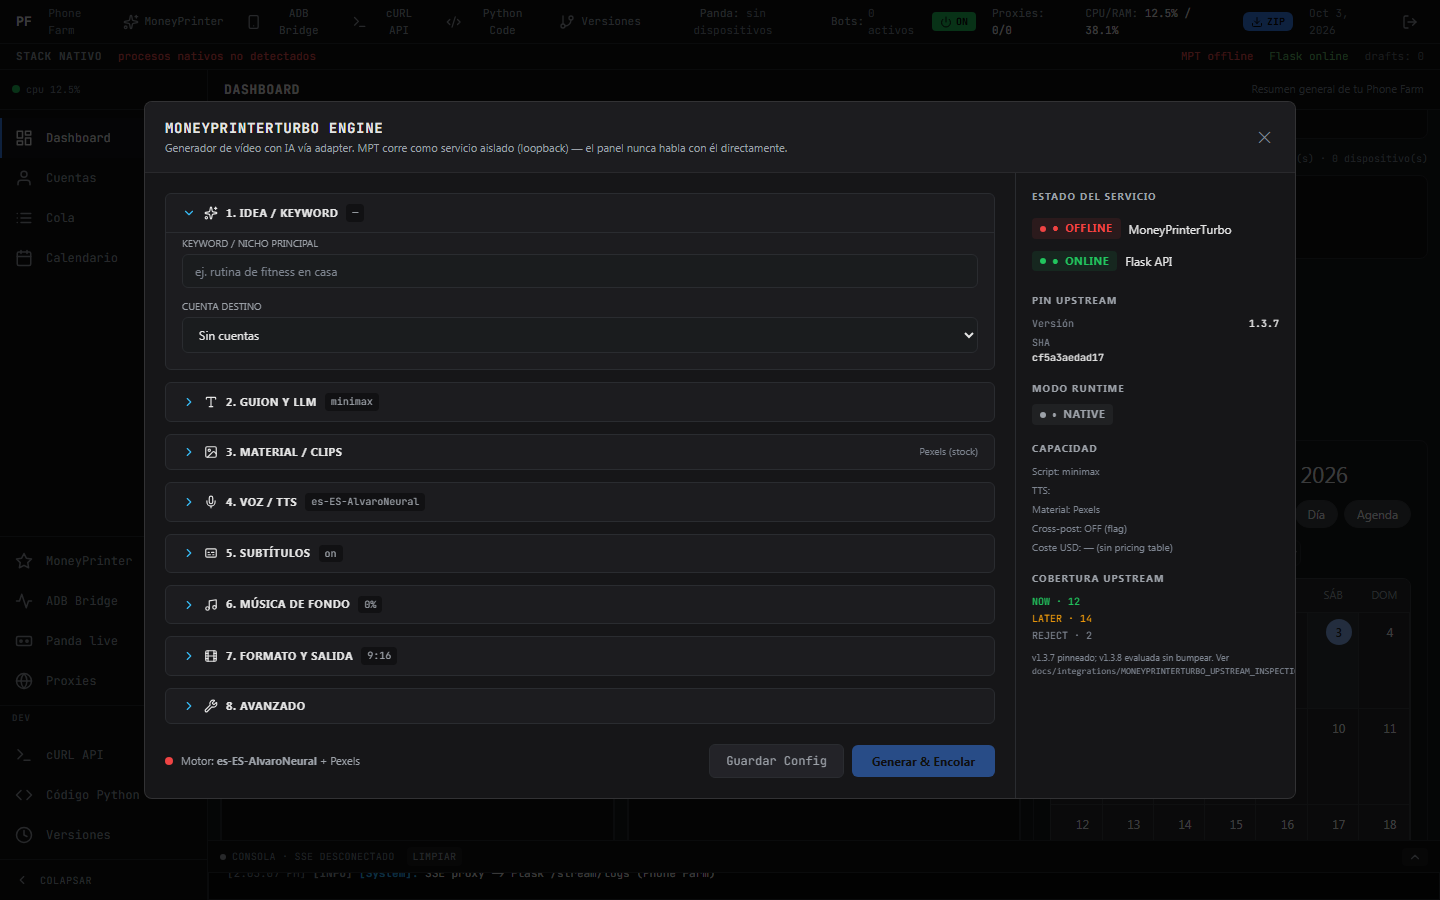
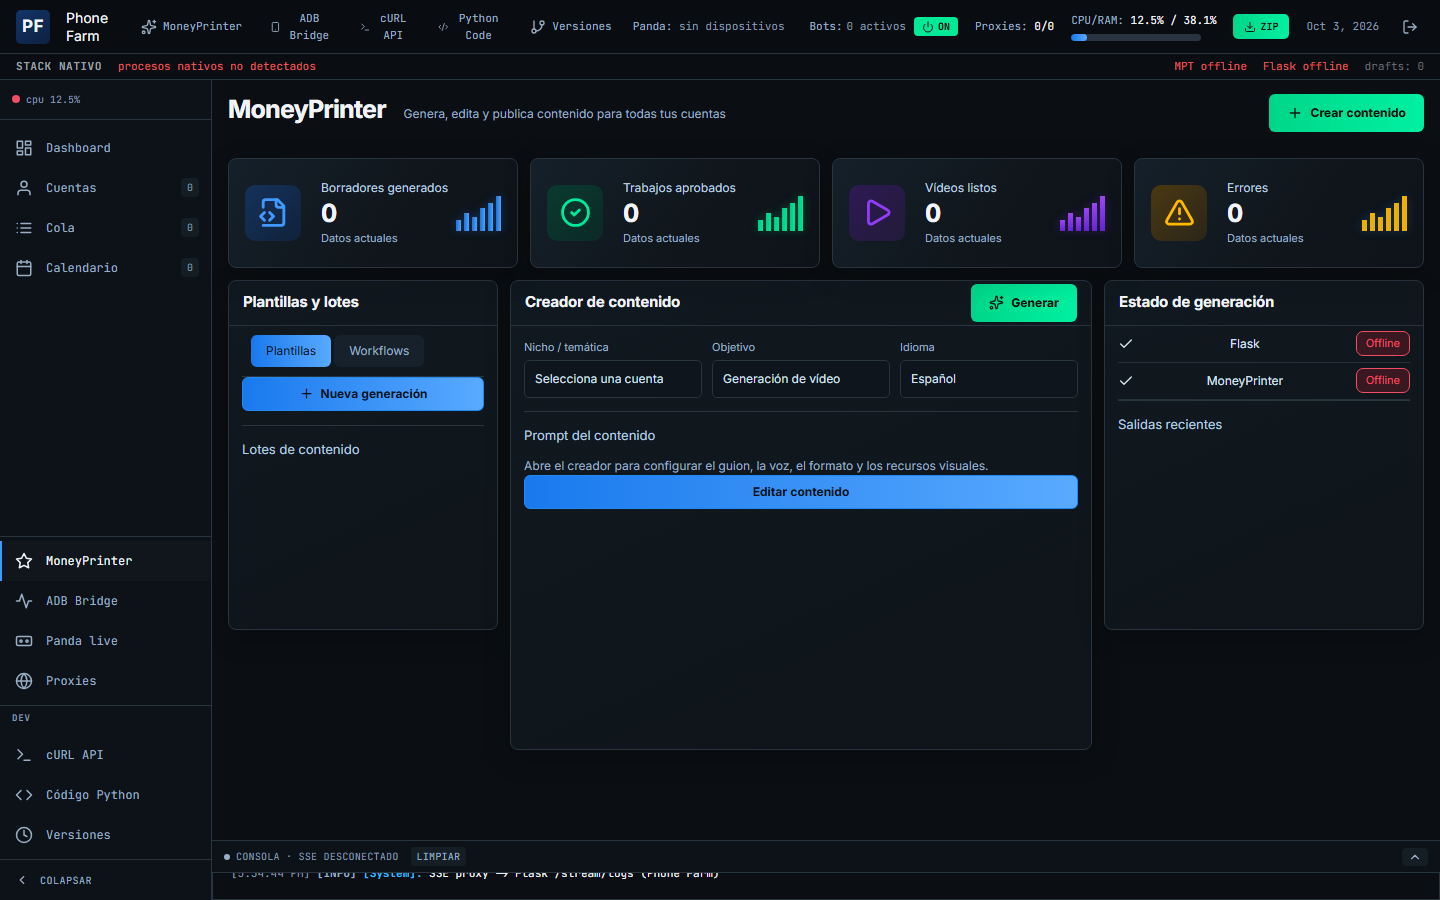
test(ui): document and capture reference views

diff --git a/e2e/reference-views.spec.ts b/e2e/reference-views.spec.ts
@@ -1,0 +1,37 @@
+import { expect, test } from '@playwright/test';
+import fs from 'node:fs';
+import path from 'node:path';
+
+const views = [
+  ['Cuentas', 'Cuentas'],
+  ['Cola', 'Cola'],
+  ['Calendario', 'Calendario'],
+  ['MoneyPrinter', 'MoneyPrinter'],
+  ['Panda live', 'Panda Live'],
+  ['Proxies', 'Proxies'],
+  ['cURL API', 'cURL API'],
+  ['Código Python', 'Código Python'],
+  ['Versiones', 'Versiones'],
+] as const;
+
+test('las nueve secciones de referencia cargan y conservan la navegación', async ({ page }) => {
+  await page.setViewportSize({ width: 1672, height: 941 });
+  await page.goto('/');
+  await page.getByLabel('Nombre de usuario operador').fill('admin');
+  await page.getByLabel('Contraseña de seguridad').fill('test-admin-password-123456');
+  await page.getByRole('button', { name: /Iniciar Sesi/ }).click();
+  const sidebar = page.getByRole('navigation', { name: /Navegación principal/i });
+  await expect(sidebar).toBeVisible();
+  const output = path.resolve('docs/evidence/ui/reference-1672');
+  fs.mkdirSync(output, { recursive: true });
+
+  for (const [navLabel, heading] of views) {
+    await page.getByRole('button', { name: navLabel, exact: true }).last().click();
+    await expect(page.getByRole('heading', { name: heading, exact: true }).first()).toBeVisible();
+    await expect(page.getByRole('banner').first()).toBeVisible();
+    await expect(sidebar).toBeVisible();
+    await page.screenshot({ path: path.join(output, `${heading.toLowerCase().replaceAll(/[^a-z0-9]+/g, '-')}.png`), fullPage: false });
+    const overflow = await page.evaluate(() => Math.max(0, document.documentElement.scrollWidth - document.documentElement.clientWidth));
+    expect(overflow).toBeLessThanOrEqual(1);
+  }
+});

diff --git a/e2e/visual.spec.ts b/e2e/visual.spec.ts
@@ -103,11 +103,11 @@ test.describe('TASK §27.5 — capturas', () => {
           await nav.getByText(/Calendario/i).first().click();
         } else if (shot.name === 'api-explorer') {
           await techNav.getByText(/cURL API/i).first().click();
-          await expect(page.getByRole('dialog', { name: /Explorador de la API/i })).toBeVisible({ timeout: 20_000 });
+          await expect(page.getByRole('heading', { name: 'cURL API' })).toBeVisible({ timeout: 20_000 });
           await page.waitForTimeout(400);
         } else if (shot.name === 'moneyprinter') {
           await techNav.getByText(/MoneyPrinter/i).first().click();
-          await expect(page.getByRole('dialog').first()).toBeVisible({ timeout: 20_000 });
+          await expect(page.getByRole('heading', { name: 'MoneyPrinter' })).toBeVisible({ timeout: 20_000 });
           await page.waitForTimeout(400);
         }
         await page.waitForTimeout(500);

diff --git a/docs/TASKS.md b/docs/TASKS.md
@@ -1,0 +1,81 @@
+# Tareas de diseño
+
+### [T-001] Tokens y fuentes
+- **Estado:** DONE
+- **Depende de:** ninguna
+- **Archivos a tocar:** src/reference.css, src/main.tsx
+- **Contexto:** La aplicación ya incluye Inter Variable, JetBrains Mono y Lucide. Se centralizan los valores derivados de las capturas sin añadir paquetes.
+- **Instrucciones:** 1. Registrar paleta y gradientes. 2. Importar los tokens tras los estilos existentes.
+- **Valores de diseño:** lienzo `#0B0E12`; panel `#10161C`; Inter 12–25 px; gradiente lineal 125° `#15202A 0%`, `#10161C 55%`, `#0E1319 100%`.
+- **Criterio de aceptación:** [x] Tokens disponibles [x] fuentes locales conservadas.
+- **Verificación:** `npm run typecheck`, `npm run build`.
+
+### [T-002] Cabecera y navegación
+- **Estado:** DONE
+- **Depende de:** T-001
+- **Archivos a tocar:** src/components/Header.tsx, src/App.tsx, src/reference.css
+- **Contexto:** El shell anterior tenía escala menor y las herramientas abrían modales directamente. Las referencias mantienen el shell visible alrededor de cada sección.
+- **Instrucciones:** 1. Ajustar cabecera y lateral. 2. Navegar a secciones de página. 3. Mantener el acceso a operaciones existentes.
+- **Valores de diseño:** cabecera 54 px; lateral 212 px; azul `#4199FF`; verde `#00E997`.
+- **Criterio de aceptación:** [x] navegación visible [x] herramientas accesibles.
+- **Verificación:** `npm run typecheck`, pruebas de navegación.
+
+### [T-003] Vista Cuentas
+- **Estado:** DONE
+- **Depende de:** T-002
+- **Archivos a tocar:** src/components/ReferenceViews.tsx, src/reference.css
+- **Contexto:** La captura usa cuatro métricas, tabla ancha y detalle lateral. Los datos proceden de cuentas reales.
+- **Instrucciones:** 1. Mostrar métricas y filtros. 2. Componer tabla. 3. Abrir el detalle existente.
+- **Valores de diseño:** panel `#10161C`; azul `#4199FF`; tarjeta 8 px de radio.
+- **Criterio de aceptación:** [x] tabla y filtros [x] detalle accesible.
+- **Verificación:** `npm run typecheck`, captura de Cuentas.
+
+### [T-004] Vista Cola
+- **Estado:** DONE
+- **Depende de:** T-002
+- **Archivos a tocar:** src/components/ReferenceViews.tsx, src/reference.css
+- **Contexto:** La imagen presenta métricas, pipeline, tabla y detalle. Se calculan categorías a partir de los estados actuales.
+- **Instrucciones:** 1. Agrupar estados. 2. Pintar pipeline y tabla. 3. Preservar generación y vista previa.
+- **Valores de diseño:** azul `#4199FF`; púrpura `#913CF5`; verde `#00E997`.
+- **Criterio de aceptación:** [x] pipeline [x] acciones conservadas.
+- **Verificación:** `npm run typecheck`, captura de Cola.
+
+### [T-005] Vista Calendario
+- **Estado:** DONE
+- **Depende de:** T-002
+- **Archivos a tocar:** src/App.tsx, src/reference.css
+- **Contexto:** El calendario existente ya permite mes, semana, día, agenda y reprogramación. Se añade cabecera, métricas y próximas publicaciones.
+- **Instrucciones:** 1. Mantener `ScheduleModal` embebido. 2. Añadir métricas reales. 3. Mostrar eventos próximos.
+- **Valores de diseño:** tarjeta `#10161C`; borde `#28343E`; separación 12 px.
+- **Criterio de aceptación:** [x] vistas y programación accesibles [x] métricas reales.
+- **Verificación:** `npm run typecheck`, captura de Calendario.
+
+### [T-006] Vista Proxies
+- **Estado:** DONE
+- **Depende de:** T-002
+- **Archivos a tocar:** src/components/ReferenceViews.tsx, src/reference.css
+- **Contexto:** Se muestran estado, latencia, lista y configuración. La telemetría ausente se identifica como tal.
+- **Instrucciones:** 1. Mostrar estado real. 2. Mostrar lista y detalle. 3. Conservar modal de gestión.
+- **Valores de diseño:** verde `#00E997`; rojo `#F04E62`; púrpura `#913CF5`.
+- **Criterio de aceptación:** [x] lista [x] acceso a gestión.
+- **Verificación:** `npm run typecheck`, captura de Proxies.
+
+### [T-007] Vistas de herramientas
+- **Estado:** DONE
+- **Depende de:** T-002
+- **Archivos a tocar:** src/components/ReferenceViews.tsx, src/reference.css
+- **Contexto:** MoneyPrinter, Panda Live, API, Código y Versiones se presentan como páginas y enlazan sus herramientas funcionales.
+- **Instrucciones:** 1. Construir composiciones de cada referencia. 2. Usar datos reales. 3. Abrir la operación existente desde cada página.
+- **Valores de diseño:** panel `#10161C`; texto `#F1F5FB`; gradientes de T-001.
+- **Criterio de aceptación:** [x] cinco páginas navegables [x] acciones accesibles.
+- **Verificación:** `npm run typecheck`, capturas de escritorio.
+
+### [T-008] QA visual y regresión
+- **Estado:** DONE
+- **Depende de:** T-003, T-004, T-005, T-006, T-007
+- **Archivos a tocar:** docs/DESIGN_DEVIATIONS.md, src/reference.css
+- **Contexto:** Las capturas son de 1672 × 941 px con datos y assets no presentes en el backend. La revisión debe separar diferencias de estilo de diferencias de contenido.
+- **Instrucciones:** 1. Ejecutar lint, typecheck, build y tests. 2. Capturar cada vista. 3. Comparar geometría, tipografía, color y estados. 4. Registrar límites reales.
+- **Valores de diseño:** viewport 1672 × 941; paleta y gradientes de T-001.
+- **Criterio de aceptación:** [x] capturas a 1672 × 941 [x] pruebas de escritorio [x] desviaciones registradas; fidelidad absoluta pendiente de datos y assets.
+- **Verificación:** `npm run lint`, `npm run typecheck`, `npm run build`, `npm test`, Playwright.

diff --git a/docs/DESIGN_IMPLEMENTATION_PLAN.md b/docs/DESIGN_IMPLEMENTATION_PLAN.md
@@ -1,0 +1,51 @@
+# Plan de implementación visual — Phone Farm
+
+## Objetivo
+
+Adaptar las nueve secciones de las capturas de 3 de octubre de 2026 a la aplicación React existente. `main-farmphone.png` representa el estado anterior del dashboard. Las capturas son referencias de escritorio a 1672 × 941 px; las cifras ilustradas no sustituyen los datos reales del servidor.
+
+## Auditoría
+
+- Stack: React 19, TypeScript 5.8, Vite 6, Tailwind CSS 4.
+- Estilos: `src/index.css` y utilidades Tailwind; tokens complementarios en `src/reference.css`.
+- Fuentes locales ya instaladas: Inter Variable y JetBrains Mono.
+- Iconos y animación ya instalados: Lucide React y Motion.
+- Componentes reutilizados: Header, ScheduleModal, modales funcionales, TerminalLogs, paneles y componentes de `src/components/design`.
+- No se requieren dependencias nuevas.
+
+## Especificación visible
+
+| Propiedad | Referencia | Certeza |
+|---|---|---|
+| Tamaño de las capturas | 1672 × 941 px | Medido |
+| Cabecera / franja de estado / lateral | 54 / ~31 / ~212 px | Medido / aproximado |
+| Lienzo | `#0B0E12` a `#0A0F15` | Muestreo raster |
+| Paneles | `#10161C` a `#151D25` | Muestreo raster |
+| Texto principal | `#F1F5FB` | Aproximado |
+| Texto secundario | `#9AAFC5` | Aproximado |
+| Azul / verde / púrpura / ámbar / rojo | `#4199FF` / `#00E997` / `#913CF5` / `#FFB900` / `#F04E62` | Aproximado |
+| Radio / borde / espacio | 8 px / 1 px / 12–16 px | Aproximado |
+| Tipografía | Inter Variable 400–750; JetBrains Mono para datos | ⚠ ASUMIDO |
+| Título / panel / texto / metadato | 25 / 15 / 12 / 10–11 px | Aproximado |
+| Gradiente de tarjeta | lineal 125°, `#15202A 0%`, `#10161C 55%`, `#0E1319 100%` | ⚠ ASUMIDO |
+| Botón azul | lineal 90°, `#1979ED 0%`, `#59AAFF 100%` | ⚠ ASUMIDO |
+| Botón verde | lineal 90°, `#00D68A 0%`, `#00F0A1 100%` | ⚠ ASUMIDO |
+| Sombra | `0 8px 28px #0000002E` | ⚠ ASUMIDO |
+
+No hay imágenes de estados hover, focus, disabled o vista móvil. Se usan los estados de los componentes existentes y se respetan las pruebas responsive actuales.
+
+## Arquitectura
+
+1. **Tokens:** `src/reference.css` define la paleta, superficies, gradientes y tamaños reutilizados.
+2. **Primitivos:** tarjeta de métrica, sección, estado, barra de progreso y tabla en `src/components/ReferenceViews.tsx`.
+3. **Secciones:** Cuentas, Cola, Proxies, MoneyPrinter, Panda Live, cURL API, Código Python y Versiones usan esos primitivos y datos reales.
+4. **Calendario:** conserva `ScheduleModal` embebido y sus funciones de programación, con una composición exterior acorde a la captura.
+5. **Acciones:** los modales operativos existentes siguen disponibles desde cada sección.
+
+## Aceptación y riesgos
+
+- Las nueve secciones se abren desde la navegación sin cubrir el shell.
+- Las acciones de backend existentes siguen accesibles.
+- La compilación TypeScript, build y tests pasan; se revisan capturas de escritorio y móvil.
+- Las capturas incluyen imágenes, telemetría y funciones que el backend actual no proporciona. No se simulan como datos reales. Esos límites se detallan en `docs/DESIGN_DEVIATIONS.md`.
+- La coincidencia visual absoluta requiere los assets originales, el mismo estado de datos y captura comparativa en el mismo navegador y viewport.

diff --git a/docs/DESIGN_DEVIATIONS.md b/docs/DESIGN_DEVIATIONS.md
@@ -1,0 +1,24 @@
+# Diferencias respecto de las imágenes de referencia
+
+La comparación se realizó con las nueve capturas de 1672 × 941 px suministradas por el usuario y con capturas generadas en `docs/evidence/ui/reference-1672/`. El resultado **no es idéntico al 100 %**. Las diferencias siguientes son visibles y permanecen abiertas.
+
+| Vista | Diferencia pendiente | Causa / alternativa actual |
+|---|---|---|
+| Cuentas | Fotografías, avatares, diez filas ilustrativas y gráficas de crecimiento | La app muestra cuentas y métricas del backend; la prueba aislada no tiene cuentas. La tabla y el detalle muestran estados vacíos reales. |
+| Cola | Los 25 jobs y sus porcentajes de muestra no aparecen | La app presenta la cola real. La prueba aislada tiene cero jobs; se conserva el pipeline y la tabla. |
+| Calendario | Publicaciones, miniaturas, borradores y mapa de actividad de la captura | No hay esas publicaciones ni assets en el backend de pruebas. Se mantiene el calendario funcional con sus eventos reales. |
+| Proxies | Gráficas históricas, mapa, reglas de rotación y prueba detallada | El modelo actual solo expone proxy, estado, IP y latencia reciente. Se indica que la telemetría falta y se ofrece la gestión existente. |
+| MoneyPrinter | Plantillas visuales, ganchos, guion completo, preview de vídeo y rendimiento | La generación real reside en `MoneyPrinterModal`; la página muestra la entrada y el estado, y abre esa herramienta. No hay esos assets ni resultados en la prueba. |
+| Panda Live | Cuatro pantallas de teléfono, leases, operadores y eventos de la captura | El backend aislado no tiene dispositivos ni sesiones. La página informa el estado real y abre Panda Live. |
+| cURL API | Conteos diarios, solicitud y respuesta ilustrativas | El contrato OpenAPI y el ejecutor reales están en el playground existente; el resumen evita inventar respuestas. |
+| Código Python | Explorador, código de muestra y ejecución de la captura | El editor real se abre desde la página. El código mostrado en la captura no es un archivo verificado del repositorio. |
+| Versiones | Tres entornos, historial de despliegues, métricas y rollback de la captura | El backend expone versión, SHA, contenedores y estado; no expone el historial ni la operación de rollback ilustrados. |
+
+Los gradientes, pesos tipográficos, espaciados y colores se estimaron a partir de capturas rasterizadas; no se conocen los tokens originales del diseño. Los estados interactivos y el diseño móvil tampoco tienen referencia adjunta. La implementación usa los estados existentes y las pruebas responsive del repositorio.
+
+## Assets pendientes
+
+- Fotografías y miniaturas originales de cuentas y publicaciones.
+- Vídeos y pantallas reales de los dispositivos.
+- Mapa geográfico y datos históricos de telemetría.
+- Datos de ejemplo autorizados para una comparación visual controlada, si se desea reproducir exactamente las cifras de las capturas.
